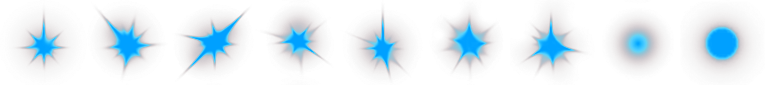
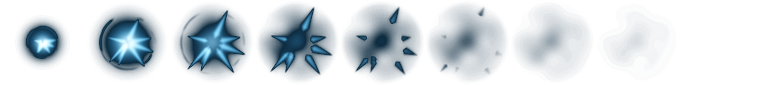
vfx: 원소 피격 임팩트 13종 재제작 — 네온 별·단색 원판 제거, Hell 팔레트 절차 생성
- impact_el0~5_sheet / boss_sheet / impact_basic_sheet 원본 규격 그대로 교체(game.html 불변)
- tools/vfx/gen_hit_impacts.py 생성기, capture_hit_impacts.mjs 실게임 A/B 캡처
- GL 알파 이중 곱(VFX-D8) 대응 알파 인코딩, 게임 내 회색화 보정
- docs: VFX_LEAD_MASTER §3.4·VFX-D8/D9, VFX_구현가이드 갱신

diff --git a/tools/vfx/gen_hit_impacts.py b/tools/vfx/gen_hit_impacts.py
@@ -1,0 +1,216 @@
+"""원소 피격 임팩트 시트 절차 생성 (VFX 총괄, 2026-10-26).
+
+대상: assets/vfx/impact_el{0..5}_sheet.png (9프레임, 85px 가로 한 줄)
+      assets/vfx/impact_el{0..5}_boss_sheet.png (16프레임, 128px)
+      assets/vfx/impact_basic_sheet.png (9프레임, 128px)
+게임은 'lighter'(가산) 합성으로 그리므로 발광 성분만 만든다. 색은
+docs/5.1임펙트디자인/VFX_LEAD_MASTER_20261026.md §2.2 원소 팔레트.
+
+사용: python tools/vfx/gen_hit_impacts.py <출력폴더>
+"""
+import math
+import os
+import sys
+
+import numpy as np
+from PIL import Image, ImageFilter
+
+SS = 4  # 슈퍼샘플 배율
+
+# el: (코어, 중간, 그림자) — VFX_LEAD_MASTER §2.2
+PAL = {
+    0: ('#efe6d2', '#9a8a72', '#2a2220'),  # 물리
+    1: ('#ffd9a0', '#d8562a', '#4a1610'),  # 화염
+    2: ('#e8f3f8', '#5f98c0', '#1a2a36'),  # 빙결 (게임 내 회색화 보정)
+    3: ('#cdb2e0', '#5e3478', '#170c20'),  # 암흑
+    4: ('#fff4d0', '#c8a848', '#2e2814'),  # 번개
+    5: ('#fff2d6', '#c9a45e', '#3a2c18'),  # 신성
+}
+BASIC = ('#f4e2bc', '#b8864a', '#3a2614')  # 범용 폴백 = 뼈색+그을린 금
+
+
+def hexc(h):
+    h = h.lstrip('#')
+    return np.array([int(h[i:i + 2], 16) / 255 for i in (0, 2, 4)], np.float32)
+
+
+def ease_out(x):
+    x = min(max(x, 0.0), 1.0)
+    return 1 - (1 - x) ** 3
+
+
+def env(t, a, peak, b):
+    """a에서 시작해 peak에서 1, b에서 0."""
+    if t <= a or t >= b:
+        return 0.0
+    if t < peak:
+        return (t - a) / max(1e-6, peak - a)
+    return (1 - (t - peak) / max(1e-6, b - peak)) ** 1.6
+
+
+class Canvas:
+    def __init__(self, size):
+        self.n = size * SS
+        self.buf = np.zeros((self.n, self.n, 3), np.float32)
+        yy, xx = np.mgrid[0:self.n, 0:self.n].astype(np.float32)
+        c = (self.n - 1) / 2
+        self.dx, self.dy = xx - c, yy - c
+        self.r = np.hypot(self.dx, self.dy)
+        self.a = np.arctan2(self.dy, self.dx)
+
+    def add(self, mask, col, k=1.0):
+        self.buf += mask[..., None] * col[None, None, :] * k
+
+
+def noise_field(n, seed, cells):
+    """큰 덩어리 값 노이즈(cells×cells 격자 보간) — 가장자리만 불규칙하게, 잔점 금지."""
+    rng = np.random.default_rng(seed)
+    g = max(2, cells)
+    small = rng.random((g, g)).astype(np.float32)
+    im = Image.fromarray((small * 255).astype(np.uint8)).resize((n, n), Image.BICUBIC)
+    return np.asarray(im, np.float32) / 255
+
+
+def streak_mask(cv, ang, r0, r1, w, jag=0.0, seed=0):
+    """중심에서 바깥으로 뻗는 가늘어지는 줄기. jag>0이면 번개처럼 꺾임."""
+    if r1 <= r0:
+        return np.zeros_like(cv.r)
+    ca, sa = math.cos(ang), math.sin(ang)
+    along = cv.dx * ca + cv.dy * sa
+    perp = -cv.dx * sa + cv.dy * ca
+    if jag > 0:
+        rng = np.random.default_rng(seed)
+        knots = rng.uniform(-1, 1, 7).astype(np.float32) * jag
+        u = np.clip((along - r0) / (r1 - r0), 0, 1)
+        perp = perp - np.interp(u, np.linspace(0, 1, 7), knots) * (r1 - r0) * 0.12
+    u = (along - r0) / (r1 - r0)
+    inside = (u >= 0) & (u <= 1)
+    taper = np.clip(1 - u, 0, 1) ** 0.8 * np.clip(u * 6, 0, 1)
+    width = w * (0.25 + 0.75 * taper)
+    m = np.exp(-(perp / np.maximum(width, 1e-3)) ** 2) * taper
+    return np.where(inside, m, 0).astype(np.float32)
+
+
+def render_frame(size, t, el, pal, boss, seed):
+    cv = Canvas(size)
+    core, mid, shadow = (hexc(c) for c in pal)
+    core = core * 0.45 + mid * 0.55  # 흰 코어가 원소색을 덮지 않게(게임 내 실측 2026-10-26)
+    R = cv.n * 0.5
+    rng = np.random.default_rng(seed)  # 프레임 간 같은 시드 → 형태 연속
+    nz = noise_field(cv.n, seed + 7, 5)
+    nz2 = noise_field(cv.n, seed + 11, 9)
+
+    # 1) 코어 섬광: 0.12에서 정점, 0.4까지 소멸
+    e = env(t, -0.01, 0.10, 0.42)
+    if e > 0:
+        cr = R * (0.06 + 0.12 * ease_out(t / 0.3))
+        m = np.exp(-(cv.r / cr) ** 2) * e
+        cv.add(m, core, 1.2)
+        cv.add(np.exp(-(cv.r / (cr * 2.4)) ** 2) * e, mid, 0.9)
+
+    # 2) 파편 줄기
+    n_st = (13 if boss else 8) + (4 if el in (1, 5) else 0)
+    bias = rng.uniform(0, 2 * math.pi)  # 분사 방향 쏠림(대칭 별 모양 회피)
+    angs = bias + rng.normal(0, 1.1, n_st)
+    lens = rng.uniform(0.55, 0.98, n_st)
+    widths = rng.uniform(0.6, 1.0, n_st)
+    delays = rng.uniform(0.0, 0.08, n_st)
+    jag = 1.0 if el == 4 else 0.0
+    w_base = R * (0.045 if el in (2, 4) else 0.055)
+    for i in range(n_st):
+        tt = (t - delays[i]) / 0.62
+        if tt <= 0 or tt >= 1:
+            continue
+        grow = ease_out(tt * 1.4)
+        r1 = R * lens[i] * (0.25 + 0.75 * grow)
+        r0 = R * lens[i] * max(0.0, tt - 0.25) * 1.1  # 뒤꼬리가 따라 나가며 떨어짐
+        fade = (1 - tt) ** 1.3
+        w = w_base * widths[i] * (1.6 if el == 2 else 1.0)
+        m = streak_mask(cv, angs[i], r0, r1, w, jag, seed * 31 + i)
+        cv.add(m * fade, core, 0.4)
+        cv.add(m * fade, mid, 2.3)
+
+    # 3) 충격 링 (얇고 흐림, 노이즈로 끊김)
+    e = env(t, 0.02, 0.10, 0.40)
+    if e > 0:
+        rr = R * (0.20 + 0.55 * ease_out((t - 0.02) / 0.38))
+        th = R * (0.035 if boss else 0.028)
+        brk = np.clip((nz2 - 0.35) * 2.5, 0, 1)  # 링을 큰 조각으로 끊음
+        m = np.exp(-((cv.r - rr) / th) ** 2) * e * brk
+        cv.add(m, mid, 0.45 if boss else 0.3)
+
+    # 4) 원소 잔광 (가산이라 어두운 연기 대신 낮은 발광)
+    e = env(t, 0.12, 0.35, 1.0)
+    if e > 0:
+        rr = R * (0.22 + 0.38 * ease_out(t))
+        cloud = np.exp(-(cv.r / rr) ** 2) * (0.25 + 0.75 * nz) ** 1.5
+        k = {3: 0.6, 1: 0.45}.get(el, 0.25) * (0.6 if boss else 1.0)
+        cv.add(cloud * e, mid, k)
+        cv.add(cloud * e, shadow, 0.6)
+
+    # 5) 화염: 위로 솟는 혀 / 신성: 십자 광선
+    if el == 1:
+        for i in range(4 if not boss else 6):
+            tt = (t - 0.05 - i * 0.03) / 0.7
+            if 0 < tt < 1:
+                a = -math.pi / 2 + rng.uniform(-0.9, 0.9)
+                r1 = R * (0.35 + 0.35 * ease_out(tt))
+                m = streak_mask(cv, a, R * 0.08 + r1 * tt * 0.5, r1, R * 0.07)
+                m *= 0.5 + 0.5 * nz
+                cv.add(m * (1 - tt) ** 1.5, mid, 0.9)
+    if el == 5:
+        e = env(t, -0.01, 0.12, 0.5)
+        if e > 0:
+            for a in (0, math.pi / 2, math.pi, 3 * math.pi / 2):
+                m = streak_mask(cv, a, 0, R * (0.5 + 0.35 * ease_out(t / 0.4)), R * 0.018)
+                cv.add(m * e, core, 1.3)
+
+    img = cv.buf
+    # 발광 번짐(글로우) — 블러 사본 가산
+    pil = Image.fromarray(np.clip(img * 255, 0, 255).astype(np.uint8))
+    glow = np.asarray(pil.filter(ImageFilter.GaussianBlur(cv.n * 0.03)), np.float32) / 255
+    img = img + glow * 0.3
+    # 톤 매핑: 코어만 밝고 채도 과포화 방지
+    img = 1 - np.exp(-img * 1.6)
+    # 게임은 알파 0.45 가산으로 그려 색이 묽어짐 → 중간톤 채도 보정(네온 수준 아님)
+    lum = img.mean(axis=2, keepdims=True)
+    img = np.clip(lum + (img - lum) * 2.0, 0, 1)
+    # 다운샘플
+    out = Image.fromarray(np.clip(img * 255, 0, 255).astype(np.uint8)).resize((size, size), Image.LANCZOS)
+    rgb = np.asarray(out, np.float32) / 255
+    # 가장자리 비네트(셀 밖으로 잘리는 것 방지)
+    yy, xx = np.mgrid[0:size, 0:size].astype(np.float32)
+    rr = np.hypot(xx - (size - 1) / 2, yy - (size - 1) / 2) / (size / 2)
+    rgb *= np.clip((1.0 - rr) / 0.12, 0, 1)[..., None]
+    # 알파 인코딩: 게임 GL 경로는 업로드 시 프리멀티플라이(game.html UNPACK_PREMULTIPLY_ALPHA) 후
+    # blendFunc(SRC_ALPHA, ONE)으로 그려 알파가 두 번 곱해진다. 알파를 4배로 올려 색 픽셀은 a=1에 가깝게 두고,
+    # 색은 rgb/a로 보정 → GL(이중)에서 ≈rgb, Canvas2D 'lighter'(단일)에서 =rgb.
+    a = np.clip(rgb.max(axis=2) * 4.0, 0, 1)
+    col = np.where(a[..., None] > 1e-4, rgb / np.maximum(a[..., None], 1e-4), 0)
+    col = np.clip(col, 0, 1)
+    rgba = np.dstack([col, a])
+    return Image.fromarray(np.clip(rgba * 255, 0, 255).astype(np.uint8), 'RGBA')
+
+
+def sheet(size, frames, el, pal, boss, seed):
+    out = Image.new('RGBA', (size * frames, size), (0, 0, 0, 0))
+    for f in range(frames):
+        t = f / (frames - 1) * 0.92 + 0.06  # 첫 프레임부터 섬광
+        out.paste(render_frame(size, t, el, pal, boss, seed), (f * size, 0))
+    return out
+
+
+def main():
+    dst = sys.argv[1] if len(sys.argv) > 1 else '.'
+    os.makedirs(dst, exist_ok=True)
+    for el, pal in PAL.items():
+        # 원본 규격 유지(el5만 128px) — 게임은 프레임 크기에 비례해 그린다
+        sheet(128 if el == 5 else 85, 9, el, pal, False, 100 + el).save(os.path.join(dst, f'impact_el{el}_sheet.png'), optimize=True)
+        sheet(128, 16, el, pal, True, 200 + el).save(os.path.join(dst, f'impact_el{el}_boss_sheet.png'), optimize=True)
+        print('el', el)
+    sheet(128, 9, 0, BASIC, False, 99).save(os.path.join(dst, 'impact_basic_sheet.png'), optimize=True)
+    print('done')
+
+
+if __name__ == '__main__':
+    main()

diff --git a/docs/5.1임펙트디자인/VFX_LEAD_MASTER_20261026.md b/docs/5.1임펙트디자인/VFX_LEAD_MASTER_20261026.md
@@ -39,7 +39,7 @@
 |---|---|---|---|---|---|
 | 0 P | 물리 | `#efe6d2` | `#9a8a72` | `#2a2220` | 뼈색·녹슨 흑철. 은빛 검기는 여기에 포함 |
 | 1 F | 화염 | `#ffd9a0` | `#d8562a` | `#4a1610` | UI 지옥불 `#ec7958`/`#a34d3f`와 같은 계열 |
-| 2 I | 빙결 | `#e8f3f8` | `#7aa6bc` | `#1a2a36` | 회청 서리. 네온 시안 금지 |
+| 2 I | 빙결 | `#e8f3f8` | `#5f98c0` | `#1a2a36` | 회청 서리. 네온 시안 금지. 중간색은 게임 내 회색화로 `#7aa6bc`→`#5f98c0` 보정(2026-10-26) |
 | 3 D | 암흑 | `#cdb2e0` | `#5e3478` | `#170c20` | 탁한 보라 연기. 마젠타 금지 |
 | 4 L | 번개 | `#fff4d0` | `#c8a848` | `#2e2814` | 누런 전광. 형광 노랑 금지 |
 | 5 H | 신성 | `#fff2d6` | `#c9a45e` | `#3a2c18` | 금빛 재. 순백 섬광은 코어에만 |
@@ -48,6 +48,7 @@
 | — | 피 | `#c0503a` | `#6e1e16` | `#2a0a08` | 인트로 피 톤(2026-10-17 사용자 확정) 기준 어두운 적갈색, 광택 금지 |
 
 - 현재 코드의 원소색 `ELC=['#bbbbbb','#ff5522','#3388ff','#9933cc','#ffee00','#ff88cc','#88aa44']`(14338행)·`ELP`(55464행)는 원색에 가깝다. 이 표는 **이펙트용 새 팔레트 제안**이며 `ELC`가 UI 글자·아이콘에도 쓰일 수 있으므로 일괄 치환하지 않는다(VFX-03에서 사용처 분리 후 결정).
+- **게임 안에서 색이 바래는 점(실측)**: 원소 피격은 알파 0.45·가산·약 70~110px로 그려지고 화면 전체 색보정이 겹쳐, 시트에서 차분한 중간색은 게임에서 회색으로 보인다. 그래서 시트 제작 시 ① 흰 코어를 원소 중간색과 45:55로 섞고 ② 중간톤 채도를 2.0배 보정한다(`tools/vfx/gen_hit_impacts.py`). 판정은 항상 게임 캡처로 한다.
 - **붉은 경고색 예약**: 바닥 붉은 링·붉은 펄스는 **적 공격 예고 전용**. 플레이어 기술의 바닥 이펙트는 화염이라도 주황·금빛 쪽으로 둬서 예고와 헷갈리지 않게 한다.
 
 ### 2.3 크기·층·길이 3단계
@@ -126,6 +127,19 @@ PoE2 학습([POE2_REFERENCE_STUDY](POE2_REFERENCE_STUDY.md) §3.1·§6.5)의 층
 | B09 피격·넉백·히트 피드백 | 1 | Codex FEEDBACK_01 |
 | 보스 BX-11 | 1 | 보스 VFX는 디자인 총괄 PASS 조건 |
 
+### 3.4 교체 기록 — 원소 피격 임팩트 13종 (2026-10-26, VFX-02 1차)
+
+| 항목 | 내용 |
+|---|---|
+| 대상 | `assets/vfx/impact_el0~5_sheet.png`(일반, 9프레임), `impact_el0~5_boss_sheet.png`(보스·강타, 16프레임), `impact_basic_sheet.png`(범용 폴백·근접 히트, 9프레임) |
+| 사용처 | `_impactSpriteFor(im)` → 히트 임팩트 렌더(`'lighter'`, 일반 알파 0.45·보스 0.62, 프레임당 4개), `_PS_IMG`(근접공격 히트) |
+| 규격 | 원본과 동일(el0~4 765×85, el5·basic 1152×128, 보스 2048×128). 게임은 프레임 크기에 비례해 그리므로 규격을 바꾸면 크기가 바뀐다 |
+| 제작 | 절차 생성 `tools/vfx/gen_hit_impacts.py` — AI 생성은 프레임 연속성이 안 나와 이 크기 스파크엔 부적합. 층: 코어 섬광(0.1 정점) → 한쪽으로 쏠린 파편 줄기 → 큰 조각으로 끊긴 충격 링 → 원소 잔광. 잔점 없음(노이즈는 5×5·9×9 큰 덩어리) |
+| 판정 | `tools/vfx/capture_hit_impacts.mjs`로 같은 게임 화면(CH1, 1920×1080, headless)에서 기존/신규를 네트워크 단 교체로 캡처. 전후: [HIT_IMPACT_BEFORE_AFTER_20261026.png](HIT_IMPACT_BEFORE_AFTER_20261026.png) |
+| 결과 | 보스: 네온 별 → 탁한 지옥불·누런 전광, 톤 일치·무게감 향상. 일반: 마젠타·시안 원판 제거, 번개 시안→전광 노랑·신성 시안→금빛으로 의미 일치. 게임 내 밝기는 기존과 비슷하게 은은함 |
+| 반복 | 1차 잔점·원형 → 2차 줄기 위주 → 3~5차 게임 내 회색화 대응(코어 혼합·채도·알파 인코딩) → 6차 빙결색·el5 규격 |
+| 남은 것 | 일반 피격을 더 또렷하게 하려면 시트가 아니라 렌더 알파(0.45)를 올려야 함 — 타격 화면 전체 밝기와 엮이므로 사용자 판정 후. 데모/EA 폴더 동기화는 배포 때 |
+
 ## 4. 일관성 감사 — 발견 (VFX-D)
 
 | ID | 문제 | 근거 | 영향 | 처리 |
@@ -137,6 +151,8 @@ PoE2 학습([POE2_REFERENCE_STUDY](POE2_REFERENCE_STUDY.md) §3.1·§6.5)의 층
 | VFX-D5 | 몹 피격 플래시 식별성 약함(근접 타격 이펙트에 가려짐) | ANIMVFX §11 | 타격감 | VFX-04 |
 | VFX-D6 | 이펙트가 `game.html` 곳곳에 하드코딩 — 층·타이밍·색을 한 곳에서 못 바꿈 | PoE2 §6.5 P0 | 일관성 유지 비용 큼 | VFX-07 |
 | VFX-D7 | 녹색 크로마 배경 원본(`silvertail_*`, `chain_blade_silver_realistic`) | 대조 시트 | 키잉 잔여 녹색 테두리 위험 | 채택본 1x 확인 |
+| VFX-D8 | VFX GL 경로 알파 이중 곱 — 텍스처를 프리멀티플라이로 올리고(`UNPACK_PREMULTIPLY_ALPHA_WEBGL,true`, 4289행 부근) `blendFunc(SRC_ALPHA,ONE)`(5214행 부근)로 다시 곱함 | 코드 확인 | 반투명 가장자리·부드러운 글로우가 GL에서 Canvas2D보다 어둡게 나옴. 기존 원색 팩은 알파 1이라 티가 안 났음 | 코드 미변경. 새 시트는 알파를 4배 올리고 색을 rgb/a로 보정해 두 경로 모두 같은 밝기(생성기 주석). 렌더러 수정은 QA·성능과 별도 결정 |
+| VFX-D9 | 원소 피격 시트 `impact_el*`가 연속 동작이 아니라 서로 다른 별 9개를 늘어놓은 것, 마지막 프레임은 단색 원판(마젠타·시안). 번개·신성이 시안 | 1x 확인 | 모든 타격에서 재생되는 최다 노출 이펙트의 품질·의미 불일치 | **2026-10-26 교체 완료**(§3.4) |
 
 ## 5. 협업 경계
 
@@ -154,7 +170,7 @@ PoE2 학습([POE2_REFERENCE_STUDY](POE2_REFERENCE_STUDY.md) §3.1·§6.5)의 층
 | 순위 | ID | 할 일 | 담당 | 완료 조건 |
 |---:|---|---|---|---|
 | 1 | VFX-01 | **기준 화풍 확정** — C묶음에서 기준 에셋 3~5개 + 네온 팩 대체 시안 1장을 실제 게임 화면에 나란히 캡처해 사용자에게 제시 | 총괄 / 사용자 판정 | 사용자가 기준 확정 → §2 「초안」 해제 |
-| 2 | VFX-02 | **원소 기본 피격 임팩트 통일**(노출 최다) — 네온 팩 `*_BasicImpact`·`*_MediumImpact`·`*_Impact*_Sheet`를 §2.2 팔레트로 재채색 시험 → 부족하면 Seedream 재생성 | 총괄 명세 / Sonnet 재채색 | 7원소 × S·M 2단계, 게임 1x 캡처 PASS |
+| 2 | VFX-02 | **원소 피격 임팩트 통일** — 1차 `impact_el*`·`impact_basic` 13종 교체 완료(§3.4). 2차 = 네온 팩 `*_BasicImpact`·`*_MediumImpact`·`*_Impact*_Sheet`·`*_FBF`(업화선·기동불꽃 폭발, `_spawnSmoke`, 악의폭풍 틴트, 사망 연기·피) — 큰 폭발 플립북은 Seedream 생성, 작은 스파크는 절차 생성 | 총괄 | 사용처별 게임 캡처 전후 PASS |
 | 3 | VFX-03 | 원소색 사용처 분리(UI 글자 vs 이펙트) → 이펙트용 팔레트 상수 신설, 화면 플래시 네온색 교체 | 총괄 | 사용처 표 + 변경 후 캡처 |
 | 4 | VFX-04 | 몹 피격 플래시 식별성(ANIMVFX §11 후보 a 흰 실루엣 / b 림라이트) | 총괄 | 실전 근접 타격 캡처에서 식별 가능 |
 | 5 | VFX-05 | 픽셀아트 묶음(D) 교체 우선순위 — 화면 노출 큰 것부터(`sbash_*` 날개 등) | 총괄 명세 | 교체 목록 + 사용자 확인 |
@@ -168,3 +184,4 @@ PoE2 학습([POE2_REFERENCE_STUDY](POE2_REFERENCE_STUDY.md) §3.1·§6.5)의 층
 | 날짜 | 내용 |
 |---|---|
 | 2026-10-26 | 임팩트 총괄 신설. 에셋 126장 대조 시트 작성, 화풍 4묶음 분류, 원소 팔레트·크기 3단계·손맛 단계 초안(§2), 발견 VFX-D1~D7, 백로그 VFX-01~09 작성. 코드·에셋 변경 없음 |
+| 2026-10-26 | 사용자 「상태 안좋은 임펙트들 걸러내고 다시 생성」. 노출 최다인 원소 피격 시트 13종을 불량 1순위로 판정(VFX-D9) → 절차 생성으로 재제작·게임 캡처 6회 반복 후 교체(§3.4). GL 알파 이중 곱 발견(VFX-D8, 코드 미변경). `game.html` 변경 없음 |

diff --git a/docs/5.1임펙트디자인/VFX_구현가이드.md b/docs/5.1임펙트디자인/VFX_구현가이드.md
@@ -1030,6 +1030,7 @@ Ori 수준 대기 깊이감. 광원 근처에서 존재감 나는 미세 입자.
 - 선택 함수는 `_impactSpriteFor(im)`이다. `im.boss`가 참이면 보스 시트와 16프레임, 아니면 일반 시트와 9프레임을 사용한다.
 - 속성·피해·포이즈·패링·히트스톱·VFX 풀 상한(12)·GL 인스턴싱 경로는 바꾸지 않았다. 시트 너비를 프레임 수로 나눠 셀을 계산하므로 일반 시트(대부분 765×85, EL5 1152×128)와 보스 시트(2048×128)를 모두 지원한다.
 - 회귀: `test/elementalImpactSprites.test.js`; 인라인 문법 및 VFX GL 회귀도 함께 검증한다.
+- **2026-10-26 시트 13종 재제작(임팩트 총괄)**: 위 표의 `impact_el0~5_sheet`·`impact_el0~5_boss_sheet`·`impact_basic_sheet`를 원본과 같은 규격으로 교체했다(코드·선택 로직 불변). 원본은 별 모양 9개 나열+단색 원판 마지막 프레임, 번개·신성이 시안이었다. 새 시트는 `tools/vfx/gen_hit_impacts.py` 절차 생성(코어→파편 줄기→끊긴 링→잔광), 색은 [VFX_LEAD_MASTER §2.2](VFX_LEAD_MASTER_20261026.md). 전후 캡처·판정은 같은 문서 §3.4.
 
 ## 2026-09-23 엘리트 등급·공격 전조 가독성
 
